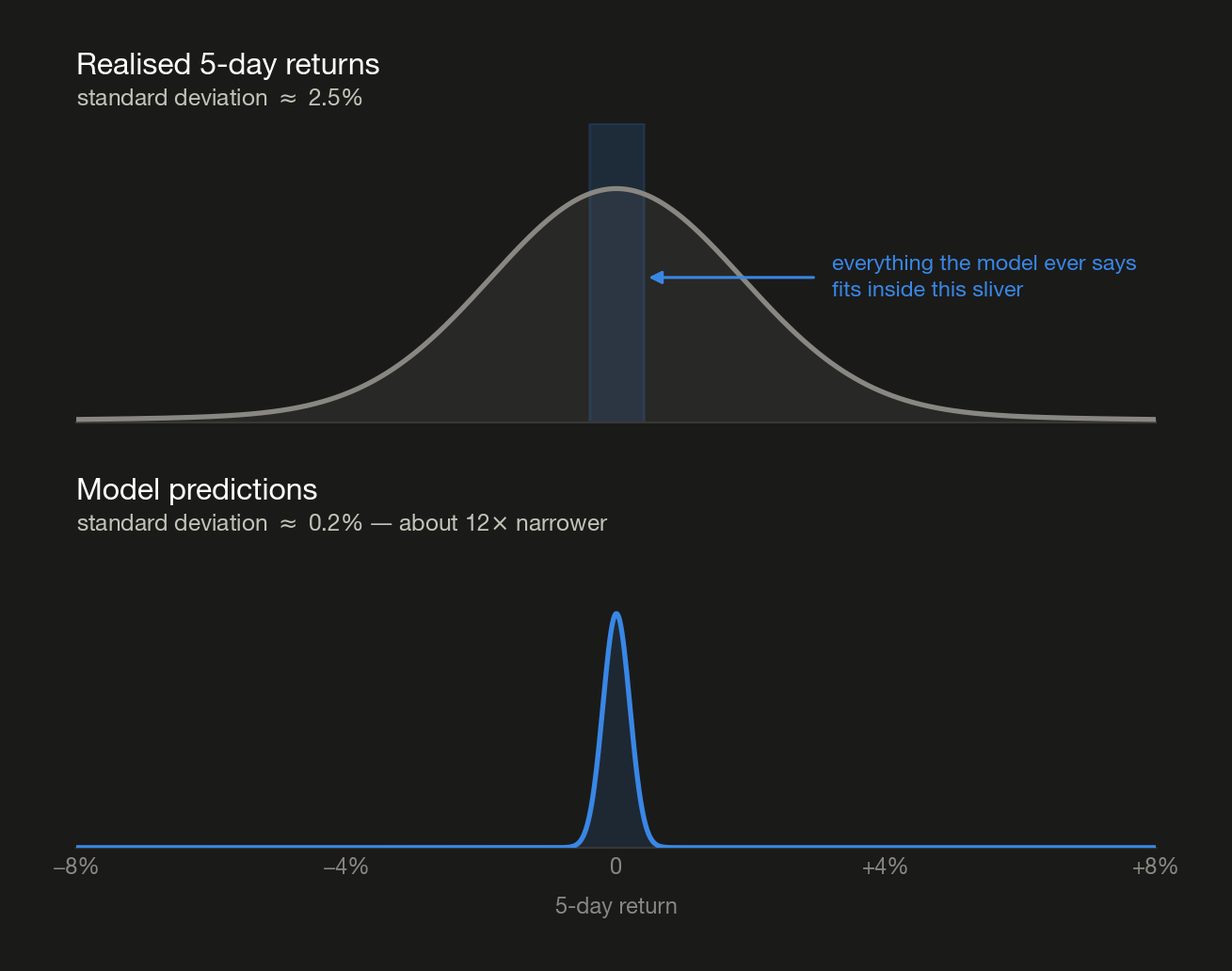
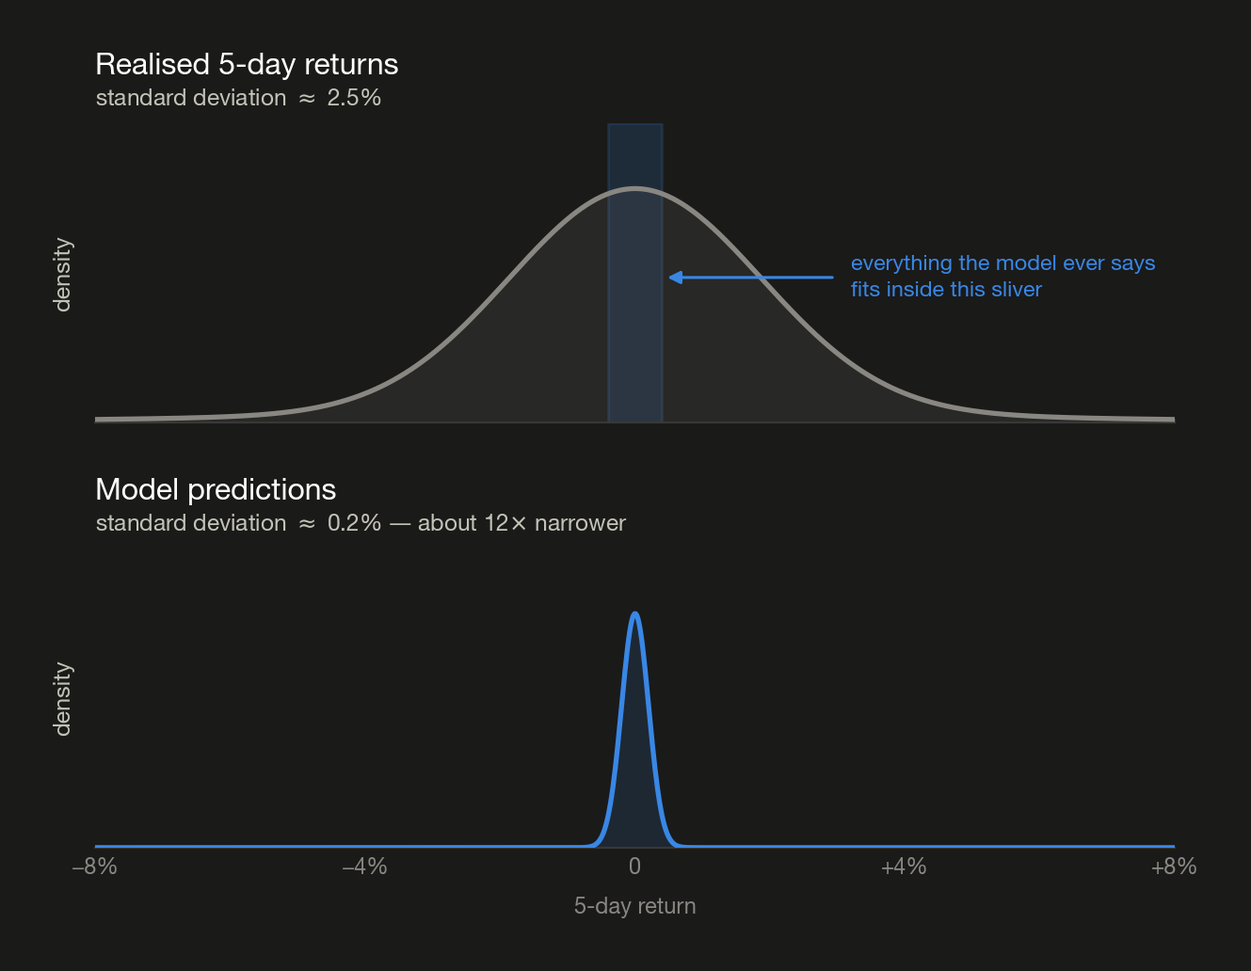
Rebuild 3.2 around the bar plot, and name the quantity on every figure axis

diff --git a/docs/figures/make_02_building_signals.py b/docs/figures/make_02_building_signals.py
@@ -58,7 +58,8 @@ def binary_momentum(mode):
     fig.patch.set_facecolor(t["surface"])
 
     # ---- left: what actually happened over the lookback
-    style_axes(ax, t, ylabel="rebased to 100", xlabel="lookback window $R_{s,t-1}$")
+    style_axes(ax, t, ylabel="price, rebased to 100",
+               xlabel="the lookback window, day 0 to day N")
     for series, colour, label in ((strong, c_strong, "+20%"), (weak, c_weak, "+10%")):
         ax.plot(x, series, color=colour, linewidth=1.9, zorder=3)
         ax.text(n + 3, series[-1], label, color=t["ink"], fontsize=9.4,
@@ -69,7 +70,7 @@ def binary_momentum(mode):
     titles(ax, t, "Two lookback windows", "one trend is twice the other")
 
     # ---- right: what sign() says about them
-    style_axes(bx, t, ylabel="$MOM_{s,t}$")
+    style_axes(bx, t, ylabel="signal $MOM_{s,t}$", xlabel="which window")
     for i, colour in enumerate((c_strong, c_weak)):
         rounded_bar(bx, i, 1.0, color=colour, width=0.42)
     bx.axhline(0, color=t["baseline"], linewidth=0.9, zorder=2)
@@ -140,8 +141,9 @@ def alpha_opacity(mode):
                         arrowprops=dict(arrowstyle="-", color=t["muted"], linewidth=1.0,
                                         connectionstyle="arc3,rad=-0.25"))
 
-    axes[0].set_ylabel("forward return", color=t["ink_secondary"], fontsize=9, labelpad=8)
-    fig.text(0.5, 0.01, "signal value", ha="center", color=t["muted"], fontsize=8.5)
+    axes[0].set_ylabel("forward return $r_{s,t}$   (σ)", color=t["ink_secondary"],
+                       fontsize=9, labelpad=8)
+    fig.text(0.5, 0.01, "signal $MOM_{s,t}$   (σ)", ha="center", color=t["muted"], fontsize=8.5)
     fig.text(0.5, -0.09,
              "Illustrative. Outer panels are one asset's 5,000 daily observations at 12% "
              "correlation, differing only in opacity. The middle is a different, invented series — "
@@ -190,7 +192,8 @@ def bucket_construction(mode):
         picked = idx[:3].ravel()                     # three draws' worth, one colour
 
         # ---- where the points come from
-        style_axes(ax, t, ylabel="return", xlabel="$MOM$", grid=False)
+        style_axes(ax, t, ylabel="forward return $r_{s,t}$",
+                   xlabel="signal $MOM_{s,t}$", grid=False)
         ax.scatter(px, py, s=3.0, color=t["series"], alpha=0.10, linewidths=0, zorder=2)
         ax.scatter(px[picked], py[picked], s=34, color=t["series"], zorder=4)
         ax.set_xticks([])
@@ -198,7 +201,8 @@ def bucket_construction(mode):
         titles(ax, t, head, sub)
 
         # ---- each draw, at the rank slot its five points fell into
-        style_axes(bx, t, ylabel="return", xlabel="rank slot", grid=False)
+        style_axes(bx, t, ylabel="forward return $r_{s,t}$",
+                   xlabel="rank slot (G1 = lowest signal)", grid=False)
         for row in ranked:
             bx.plot(range(5), row, color=t["series"], alpha=0.42, linewidth=1.1,
                     marker="o", markersize=4.6, zorder=4)
@@ -210,7 +214,8 @@ def bucket_construction(mode):
         # ---- and the average of many, with the error on it
         allr, _ = slots(px, py, total)
         means, errs = allr.mean(axis=0), allr.std(axis=0) / total ** 0.5
-        style_axes(cxx, t, ylabel="mean return", xlabel="signal bucket")
+        style_axes(cxx, t, ylabel="mean forward return $r_{s,t}$",
+                   xlabel="signal bucket ($MOM$)")
         for i, v in enumerate(means):
             rounded_bar(cxx, i, v, color=t["series"], width=0.34)
         cxx.errorbar(range(5), means, yerr=errs, fmt="none", ecolor=t["muted"],
@@ -256,7 +261,8 @@ def noise_shrinks(mode):
         groups = y[order].reshape(5, m)
         means, errs = groups.mean(axis=1), groups.std(axis=1) / m ** 0.5
 
-        style_axes(ax, t, ylabel="mean forward return (bp)" if ax is axes[0] else None)
+        style_axes(ax, t, ylabel="mean forward return (bp)" if ax is axes[0] else None,
+                   xlabel="signal bucket ($MOM$)")
         for i, v in enumerate(means):
             rounded_bar(ax, i, v, color=t["series"], width=0.34)
         ax.errorbar(range(5), means, yerr=errs, fmt="none", ecolor=t["muted"],
@@ -335,7 +341,8 @@ def three_bucketings(mode):
     fig.patch.set_facecolor(t["surface"])
 
     for ax, ((m, e, n, share), head, sub) in zip(axes, panels):
-        style_axes(ax, t, ylabel="mean forward return (bp)" if ax is axes[0] else None)
+        style_axes(ax, t, ylabel="mean forward return (bp)" if ax is axes[0] else None,
+                   xlabel="signal bucket ($MOM$)")
         for i, v in enumerate(m):
             if not np.isnan(v):
                 rounded_bar(ax, i, v, color=t["series"], width=0.34)
@@ -382,7 +389,7 @@ def signal_distribution(mode):
 
     for ax, (cuts, title, subtitle, counts) in zip(axes, panels):
         style_axes(ax, t, ylabel="density" if ax is axes[0] else None,
-                   xlabel="standardized signal   (σ)", grid=False)
+                   xlabel="standardized signal $MOM_{s,t}$   (σ)", grid=False)
         ax.plot(x, y, color=t["series"], linewidth=2.0, solid_capstyle="round", zorder=3)
         ax.fill_between(x, y, color=t["wash"], alpha=0.10, zorder=2)
         for c in cuts:
@@ -420,8 +427,8 @@ def signal_kernels(mode):
 
     fig, ax = plt.subplots(figsize=(7.0, 4.3))
     fig.patch.set_facecolor(t["surface"])
-    style_axes(ax, t, ylabel="weight on that day's return",
-               xlabel="lag (trading days ago)")
+    style_axes(ax, t, ylabel="weight the signal puts on $r_{s,t-i}$",
+               xlabel="lag $i$ (trading days before $t$)")
 
     ax.step(lags, box, where="post", color=t["muted"], linewidth=1.7, zorder=3)
     ax.fill_between(lags, 0, box, step="post", color=t["muted"], alpha=0.13, zorder=2)
@@ -489,8 +496,9 @@ def scatter_ladder(mode):
                     color=t["series"], linewidth=1.6, solid_capstyle="butt",
                     clip_on=False, zorder=5)
 
-    axes[0].set_ylabel("forward return", color=t["ink_secondary"], fontsize=9, labelpad=8)
-    fig.text(0.5, 0.01, "signal value", ha="center", color=t["muted"], fontsize=8.5)
+    axes[0].set_ylabel("forward return $r_{s,t}$   (σ)", color=t["ink_secondary"],
+                       fontsize=9, labelpad=8)
+    fig.text(0.5, 0.01, "signal $MOM_{s,t}$   (σ)", ha="center", color=t["muted"], fontsize=8.5)
     fig.text(0.5, -0.09,
              "Illustrative. Every panel holds a real relationship — only the first two are "
              "strong enough for the eye to find it.",
@@ -544,9 +552,11 @@ def bucket_time_collapse(mode):
             ax.plot([x0 + fx * PW + SHEAR * fy], [y0 + fy * PH], marker="o",
                     markersize=3.4, color=t["ramp"][5], zorder=4)
 
-    ax.text(11.1, AX_Y + 1.55,
-            "one draw of five per date —\nslot across, forward return up.\n"
-            "Not one of them is ordered",
+    ax.text(11.1, AX_Y + 1.50,
+            "each panel is one draw of five\n"
+            "at that date — across: signal\n"
+            "slot G1 to G5;  up: forward\n"
+            "return $r_{s,t}$. None is ordered",
             ha="left", va="center", color=t["ink_secondary"], fontsize=8.3,
             linespacing=1.5)
 
@@ -574,8 +584,10 @@ def bucket_time_collapse(mode):
     ax.text(6.35, ZERO, "monotone G1 to G5, and that is\nthe whole claim — it says\nnothing about when",
             ha="left", va="center", color=t["ink_secondary"], fontsize=8.3,
             linespacing=1.5)
-    ax.text(1.35, 1.42, "average forward return per slot, pooled over the whole sample",
-            ha="left", va="center", color=t["muted"], fontsize=8.2)
+    ax.text(3.7, 1.42, "signal bucket ($MOM$)", ha="center", va="center",
+            color=t["muted"], fontsize=8.4)
+    ax.text(0.95, ZERO, "mean forward return $r_{s,t}$", rotation=90,
+            ha="center", va="center", color=t["ink_secondary"], fontsize=8.4)
 
     titles(ax, t, "Every date contributes one draw; the pool keeps only the averages",
            "illustrative — the bar chart is the whole history flattened onto a single picture")

diff --git a/docs/figures/make_01_what_is_cta.py b/docs/figures/make_01_what_is_cta.py
@@ -57,7 +57,8 @@ def levels_vs_rebased(mode):
     ]
 
     for ax, (frame, title, subtitle, unit) in zip(axes, panels):
-        style_axes(ax, t, ylabel=f"close ({unit})" if unit else "index (start = 100)")
+        style_axes(ax, t, ylabel=f"close ({unit})" if unit else "index (start = 100)",
+                   xlabel="date")
         for tk, c in zip(tickers, colours):
             ax.plot(x, frame[tk], color=c, linewidth=1.6, zorder=3)
             ax.text(x[-1], frame[tk].iloc[-1], f"  {tk}", color=c, fontsize=8.8,

diff --git a/docs/figures/make_08_ic_and_r_squared.py b/docs/figures/make_08_ic_and_r_squared.py
@@ -52,7 +52,7 @@ def prediction_shrinkage(mode):
          "standard deviation $\\approx$ 0.2% — about 12$\\times$ narrower"),
     ]
     for ax, y, colour, title, subtitle in panels:
-        style_axes(ax, t, grid=False)
+        style_axes(ax, t, ylabel="density", grid=False)
         ax.plot(x, y, color=colour, linewidth=1.9, zorder=3)
         ax.fill_between(x, y, color=colour, alpha=0.13, zorder=2)
         ax.set_yticks([])

diff --git a/docs/02-building-signals.md b/docs/02-building-signals.md
@@ -166,108 +166,78 @@ concluding anything **from** a cloud.
 
 ### 3.2 Beta Method
 
-Stop asking each point what it did, and ask each *group* of points what they did on average.
+Stop asking each point what it did, and ask each *group* of points what they did on average. The
+answer comes back as a **bar plot**, and the rest of § 3 is about reading that one chart.
 
-#### 3.2.1 Where the bars come from
+#### 3.2.1 What a bar plot is
 
-**The construction.** Six steps, and the figure below is the same six read left to right.
+**Definition (Bar plot).** Five bars. The horizontal axis is the **signal**, coarsened into five
+ordered slots G1 … G5; the vertical axis is the **mean forward return** of the observations filed
+into each slot. Every observation lands in exactly one bar, and the error bar on it is the standard
+error of that mean.
 
-1. **Draw** five observations at random — one observation being one date. The left
-   column marks fifteen of them, three draws' worth, all in one colour: any five will do.
-2. **Rank** those five by signal value, highest to lowest.
-3. **Assign** them to slots — highest signal into G5, next into G4, down to G1.
-4. **Record** the forward return each one went on to deliver, filed under its slot. Steps 2–4 are
-   one line in the middle column: five points, one per slot.
-5. **Repeat** steps 1–4 a few hundred times. The middle column draws six of them.
-6. **Average** everything filed under G1, then G2, and so on — five numbers, drawn in the right
-   column as five bars with the error on each.
+Five steps build it:
+
+1. **Draw** five observations at random — one observation is one asset-date.
+2. **Rank** them by signal and file them into slots: highest $MOM_{s,t}$ into G5, down to G1.
+3. **Record** the forward return each one went on to deliver, under its slot.
+4. **Repeat** a few hundred times.
+5. **Average** everything filed under each slot.
+
+The figure runs those five left to right — the population and the points drawn from it, each draw
+sitting at the slots its five points fell into, and the average of many with the error on it.
 
 <picture>
   <source media="(prefers-color-scheme: dark)" srcset="figures/bucket-construction-dark.png">
-  <img alt="Six panels in two rows, each row running the same steps on a different world. Left column, the population with fifteen randomly drawn points marked in the same colour: on a perfect line they sit along it, on the real cloud they sit anywhere. Middle column, six draws of five plotted against rank slots G1 to G5: on the line every draw rises monotonically, on the cloud the six lines cross and tangle with no order at all. Right column, the average over 400 draws with error bars: a clean staircase on the line, and on the cloud a shorter staircase from a negative G1 to a positive G5 whose error bars are a third of the bar heights" src="figures/bucket-construction-light.png">
+  <img alt="Six panels in two rows, each row running the same steps on a different world. Left column, forward return against signal, the population with fifteen randomly drawn points marked in the same colour: on a perfect line they sit along it, on the real cloud they sit anywhere. Middle column, six draws of five plotted against rank slots G1 to G5: on the line every draw rises monotonically, on the cloud the six lines cross and tangle with no order at all. Right column, mean forward return per signal bucket averaged over 400 draws with error bars: a clean staircase on the line, and on the cloud a shorter staircase from a negative G1 to a positive G5 whose error bars are a third of the bar heights" src="figures/bucket-construction-light.png">
 </picture>
 
-**The sort key is the signal, never the return.** Steps 2 and 3 order by $MOM_{s,t}$, known at
-$t$; step 4 only *records* what followed. So G1 holds the lowest-**signal** observations, not the
-worst performers.
+**The sort key is the signal, never the return.** Step 2 orders by $MOM_{s,t}$, which is known at
+$t$; step 3 only *records* what followed. G1 therefore holds the lowest-**signal** observations, not
+the worst performers.
 
-**Example.** One draw of five, invented:
+**Example.** One draw of five, invented, filed both ways:
 
-|   | Signal | Forward return |
-| - | ------ | -------------- |
-| A | +2.1%  | −0.4%         |
-| B | −1.8% | +0.9%          |
-| C | +0.6%  | +1.3%          |
-| D | +3.4%  | +0.2%          |
-| E | −0.9% | −1.1%         |
+|   | Signal $MOM_{s,t}$ | Forward return $r_{s,t}$ | Slot by signal | Slot by return |
+| - | ------------------ | ------------------------ | -------------- | -------------- |
+| A | +2.1%              | −0.4%                   | G4             | G2             |
+| B | −1.8%             | +0.9%                    | G1             | G4             |
+| C | +0.6%              | +1.3%                    | G3             | G5             |
+| D | +3.4%              | +0.2%                    | G5             | G3             |
+| E | −0.9%             | −1.1%                   | G2             | G1             |
 
-Filled by signal, and then by forward return instead:
+Read down *slot by signal* and the returns come out unordered — which is exactly what one draw looks
+like at 12% correlation. Read down *slot by return* and the ordering is perfect, and would be perfect
+for **any** signal including one straight out of a random number generator, because each bar is then
+reporting the sort key back to you. **The staircase is evidence only because the thing sorted on and
+the thing measured are different, and the second was not knowable when the first was computed.**
 
-| Slot | Sorted by signal | filed return | Sorted by return | filed return |
-| ---- | ------------------------- | ------------ | ------------------------- | ------------ |
-| G5   | D                         | +0.2%        | C                         | +1.3%        |
-| G4   | A                         | −0.4%       | B                         | +0.9%        |
-| G3   | C                         | +1.3%        | D                         | +0.2%        |
-| G2   | E                         | −1.1%       | A                         | −0.4%       |
-| G1   | B                         | +0.9%        | E                         | −1.1%       |
+One bar therefore carries three pieces of information: which fifth of the signal's range it stands
+for, the average return that fifth went on to earn, and how much of that average is sampling noise.
 
-The left pair is what step 4 files: a mess, which is what one draw looks like at 12% correlation.
-The right pair is flawless — and would be flawless for **any** signal, including one out of a random
-number generator, because each bar is reporting the sort key back to you. **The staircase is
-evidence only because the thing sorted on and the thing measured are different, and the second was
-not knowable when the first was computed.**
+#### 3.2.2 How the bar plot shows a trend
 
-**The staircase belongs to step 6.** The figure's top row runs the steps where the answer is known
-and every draw of five comes out ordered. The bottom row runs them on § 2's real scatter, where the
-six draws cross and tangle — at 12% correlation not one of them should be monotone.
+**The trend is the ordering, not the heights.** § 1's hypothesis was *higher signal, higher forward
+return*; on a bar plot that is precisely the statement G1 < G2 < G3 < G4 < G5. A single bar's level
+moves with the bucketing choice (§ 5) — the ordering is what does not.
 
-Steps 1 to 5 were drawn as though the draws floated free of the calendar, and they do not: one
-observation is one **date**, so every draw sits somewhere on the time axis. The figure below redraws
-the same recipe that way — a strip of five-point draws standing along $t$, and step 6 flattening the
-strip into five numbers.
-
-<picture>
-  <source media="(prefers-color-scheme: dark)" srcset="figures/bucket-time-collapse-dark.png">
-  <img alt="A horizontal time axis labelled t with five dates marked on it. Standing on each date is a small slanted panel holding one draw of five points, slot across and forward return up, and none of the five panels shows any ordering. An arrow labelled pool every date then average within each slot points down from the axis to a bucket chart of five bars with error bars, rising monotonically from about minus 20 basis points at G1 to plus 20 at G5, annotated that the ordering is the whole claim and that the chart says nothing about when the edge happened" src="figures/bucket-time-collapse-light.png">
-</picture>
-
-So the bar chart is an average over **dates** every bit as much as over observations, and that is
-what makes it legible at all: no single date's draw is ordered, and the ordering only surfaces once
-a few hundred of them are stacked.
-
-What it costs is the axis. Step 6 integrates over $t$, and an integral hands back an area, never the
-shape of the function underneath it — a staircase that is monotone over twenty years is equally
-consistent with an edge that held throughout and with one that worked for five years and was flat
-for fifteen. Recovering the shape takes a different plot: the equity curve of
-[04](04-understanding-backtesting.md). → § 5 and the counts printed under its three cuts are the
-first place this loss becomes visible.
-
-#### 3.2.2 Reading the staircase
-
-Three things are readable off a bucket chart, and it is worth being strict about which:
+Two further readings carry information, and nothing else on the chart does:
 
 | Read | What it establishes |
 | --- | --- |
-| **Monotonicity across G1 → G5** | the ordering claim of § 1, tested. This is the hypothesis — *higher signal, higher average forward return* — and it is the only thing the chart is really asserting |
-| **The G5 − G1 spread against the error bars** | the size of the edge relative to what noise alone would draw. A staircase whose whole rise fits inside one error bar is not evidence of anything |
+| **G5 − G1, measured against the error bars** | the size of the edge next to what noise alone would draw. A rise that fits inside one error bar is not evidence of anything |
 | **The direction of the slope** | a *descending* staircase is not a dead signal — it is the same edge carrying the opposite sign |
 
-An individual bar's height is not on that list. It moves with the bucketing choice (§ 5), so the
-level of G3 says far less than the fact that G3 sits between G2 and G4. Nor is a scrambled middle
-disqualifying: clean tails with a muddled G2–G4 is a common and perfectly tradeable shape, since the
-tails are where the positions actually go.
+A scrambled middle does not disqualify a signal: clean tails around a muddled G2–G4 is a common
+shape and a perfectly tradeable one, since the tails are where the positions go.
 
-On direction, adopt a convention early and keep it: **leave the signal's sign alone and let the
-chart come out upside down.** Flipping a signal the moment its staircase descends is cheap and
-tempting, and a dozen signals later you will not remember which ones you flipped. Read a descending
-staircase as *this works, traded short*, and carry the sign in the strategy rather than folding it
-back into the signal definition.
+On direction, adopt a convention and keep it: **leave the signal's sign alone and let the chart come
+out upside down.** Flipping a signal the moment its staircase descends is cheap, and a dozen signals
+later you will not remember which ones you flipped. Read a descending staircase as *this works,
+traded short*, and carry the sign in the strategy rather than in the signal definition.
 
-How much of the staircase to believe is a question about the error bars, and those are set by one
-number.
-
-**Claim.** Averaging within a group shrinks the noise and leaves the signal untouched, which is what
-step 5 buys.
+**Claim.** The ordering surfaces at all only because of step 4 — averaging shrinks the noise and
+leaves the signal untouched.
 
 **Proof.** Take $m$ observations sharing a similar signal value. Their mean return still has
 expectation $\beta$ times their mean signal, while the noise around it falls to
@@ -281,7 +251,7 @@ $\sigma_\epsilon / m^{1/2}$:
 
 <picture>
   <source media="(prefers-color-scheme: dark)" srcset="figures/noise-shrinks-dark.png">
-  <img alt="Four bucket charts of the same population at 12 percent correlation, computed from 5, 30, 300 and 3,000 observations per bucket. At m equals 5 the bars swing between minus 80 and plus 93 basis points and are not monotone; by m equals 300 they have settled into a monotone staircase from about minus 20 to plus 20 basis points, and at m equals 3,000 the error bars are barely visible" src="figures/noise-shrinks-light.png">
+  <img alt="Four bucket charts of the same population at 12 percent correlation, mean forward return in basis points against signal bucket, computed from 5, 30, 300 and 3,000 observations each. At m equals 5 the bars swing between minus 80 and plus 93 basis points and are not monotone; by m equals 300 they have settled into a monotone staircase from about minus 20 to plus 20 basis points, and at m equals 3,000 the error bars are barely visible" src="figures/noise-shrinks-light.png">
 </picture>
 
 The true bars are identical in all four panels — near −20 bp at G1 and +20 bp at G5. Only the error
@@ -291,6 +261,28 @@ recipe; it is the reason the recipe works.**
 **Note (Where that overstates it).** The $m^{1/2}$ assumes independence. Overlapping lookback
 windows and returns that cluster in time push the effective count well below $m$, so the noise does
 not really reach 7 bp. The logic survives: averaging cancels noise and leaves systematic signal.
+
+#### 3.2.3 What the bar plot cannot show
+
+Steps 1 to 4 were drawn as though the draws floated free of the calendar. They do not: one
+observation is one **date**, so every draw stands somewhere on $t$, and step 5 flattens the whole
+strip into five numbers.
+
+<picture>
+  <source media="(prefers-color-scheme: dark)" srcset="figures/bucket-time-collapse-dark.png">
+  <img alt="A horizontal time axis labelled t with five dates marked on it. Standing on each date is a small slanted panel holding one draw of five points, signal slot G1 to G5 across and forward return up, and none of the five panels shows any ordering. An arrow labelled pool every date then average within each slot points down from the axis to a bar plot of mean forward return against signal bucket, five bars with error bars rising monotonically from about minus 20 basis points at G1 to plus 20 at G5, annotated that the ordering is the whole claim and that the chart says nothing about when the edge happened" src="figures/bucket-time-collapse-light.png">
+</picture>
+
+Step 5 integrates over $t$, and an integral hands back an area, never the shape of the function
+underneath it. A staircase that is monotone over twenty years is equally consistent with an edge
+that held throughout and with one that worked for five years and was flat for fifteen.
+
+| Not on the chart | Where to look instead |
+| --- | --- |
+| **When** the edge happened | the equity curve of [04](04-understanding-backtesting.md) |
+| **Who** is inside a bucket — which era, which regime | the observation counts printed under § 5's three cuts |
+| **The spread** of returns behind a bar, as against its mean | the distribution within a bucket, not its mean |
+| **How independent** the observations are | overlapping windows, per the Note above |
 
 ## 4. Risk-adjusted momentum
 
@@ -361,10 +353,9 @@ a fixed window keeps precision uniform and tracks regime changes, at the price o
 
 ### What none of the three shows
 
-The composition that separates the three panels appears only in the printed counts — **a bar chart
-cannot show who is inside a bucket.** Neither can any of them show when the edge happened, or what
-the distribution inside a bar looks like. Those need different plots: the same chart on subsamples,
-and the spread of returns within a bucket rather than its mean.
+The composition that separates these three panels shows up only in the printed counts — which is
+§ 3.2.3's point arriving with numbers attached. The bars themselves look equally healthy in all
+three.
 
 A fourth angle sits outside this chapter entirely: cross-sectional ranking — each asset against
 its peers that day rather than against its own past. That is the Portfolio 1 vs Portfolio 2 distinction in
@@ -555,7 +546,7 @@ how long the rebate lasts, never from the prettiest staircase.
 **One check.** The two forms must agree. If you slide the return column and the $MOM$ values move
 as well, the edit reached the signal, which it never should.
 
-The lower panel is also where § 3.2's caveat comes from. Step one date forward and the lookback
+The lower panel is also where § 3.2.2's caveat comes from. Step one date forward and the lookback
 keeps all but one of its cells, so neighbouring signals are nearly the same number — the reason the
 effective sample sits well below $m$.
 
